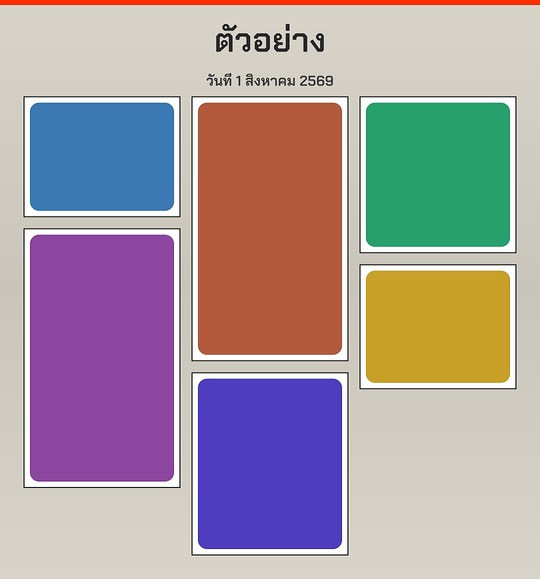
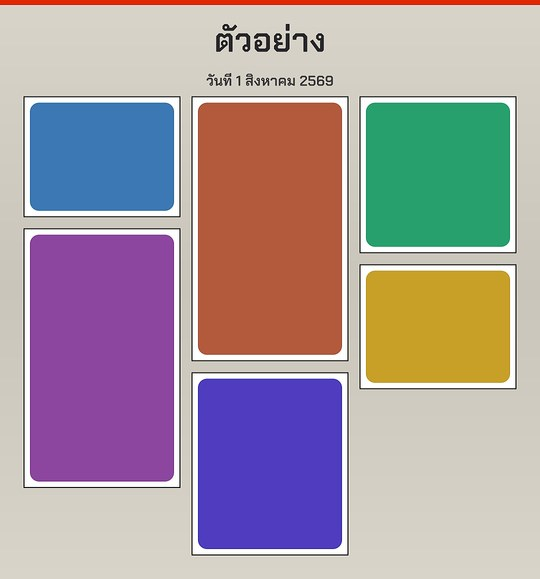
fix(themes): ensure WCAG AA contrast — darken stripes (claude/moss/brut)

Changed region(s): [[0.0, 0.0, 1.0, 0.0311]]

diff --git a/backend/design-system/themes/claude/manifest.js b/backend/design-system/themes/claude/manifest.js
@@ -78,7 +78,7 @@ export const manifest = {
     header: {
       text: 'CLAUDE PAPER · NOTES',
       color: '#d97757', font: 'serif', size: 36, pad: 48, glow: false,
-      stripe: '#d97757', stripeHeight: 8, stripePos: 'top',
+      stripe: '#c05f3a', stripeHeight: 8, stripePos: 'top',
     },
     overlay: 'none',
     photoFx: 'none',

diff --git a/backend/design-system/themes/brut/manifest.js b/backend/design-system/themes/brut/manifest.js
@@ -64,7 +64,7 @@ export const manifest = {
     header: {
       text: 'BRUT · RAW OUTPUT',
       color: '#ff2e00', font: 'mono', size: 40, pad: 48, glow: false,
-      stripe: '#ff2e00', stripeHeight: 20, stripePos: 'top',
+      stripe: '#e02900', stripeHeight: 20, stripePos: 'top',
     },
     overlay: 'none',
     photoFx: 'none',

diff --git a/backend/design-system/themes/moss/manifest.js b/backend/design-system/themes/moss/manifest.js
@@ -67,7 +67,7 @@ export const manifest = {
     header: {
       text: 'MOSS · GARDEN',
       color: '#4f6d2d', font: 'serif', size: 36, pad: 48, glow: false,
-      stripe: '#6a8c3f', stripeHeight: 14, stripePos: 'top',
+      stripe: '#55782e', stripeHeight: 14, stripePos: 'top',
     },
     overlay: 'none',
     photoFx: 'none',
